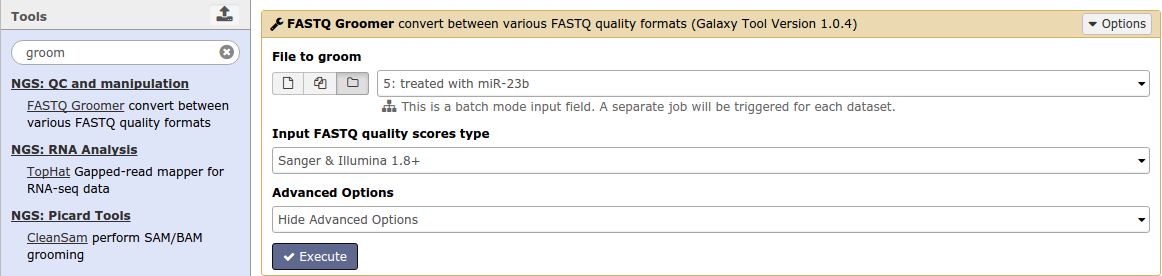
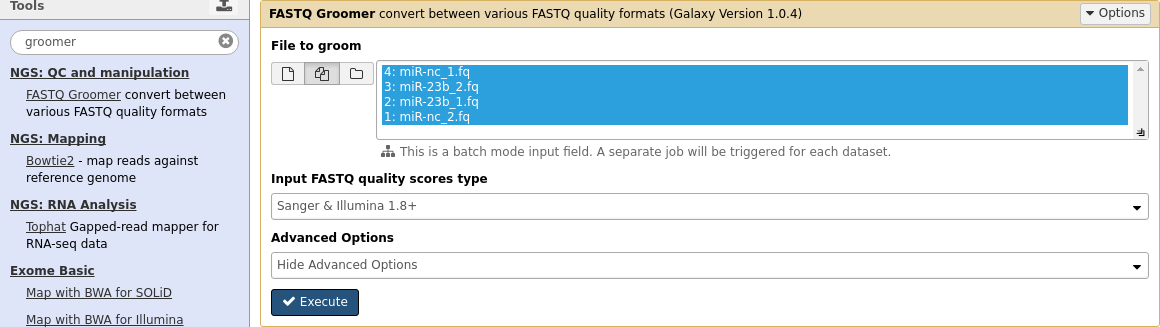
RNA seq updates

diff --git a/Galaxy_RNA-Seq_DGE/Galaxy_RNA-Seq_DGE_manual_Module_QC.tex b/Galaxy_RNA-Seq_DGE/Galaxy_RNA-Seq_DGE_manual_Module_QC.tex
@@ -1,47 +1,49 @@
 \section{RNA-Seq: QC/QA}
-The very first step of an RNA-Seq analysis is the quality control and quality assurance. The sequencing data is usually provided in FASTQ format, which describes per base the quality reflecting the probability it was measured correctly. However, different encodings are being used. Galaxy has tools that figure this information out for you.
+The very first step of an RNA-Seq analysis is the quality control and quality assurance. The sequencing data is usually provided in FASTQ format, which reports the sequenced bases and also describes per base the quality reflecting the probability it was measured correctly. However, different encodings are being used. Galaxy contains tools that assist you in determining and dealing with these formats by converting them to \textit{fastqsanger}.
 
-\subsection{Paired end $\rightarrow$ pairs}
-For this module, create a new history and load the Shared Data files ``ctrl\_small\_1.fq'' and ``ctrl\_small\_2.fq'' and ``treat\_small\_1.fq'' and ``treat\_small\_2.fq'' into your history. As you may expect from the file names already, \verb|_1| and \verb|_2| indicate that these files are paired end and belong together:\\
+\subsection{Paired end data as `pairs' within galaxy}
+\textbf{Note: using `pairs' for storing paired end reads in galaxy is experimental but will become the common way doing analysis on paired end data.} \\
+This section will only show how to do this.
+
+For this module, create a new history and load the Shared Data (\textit{\datalibrarydirrnaseqadvanced}) files ``ctrl\_small\_1.fq'' and ``ctrl\_small\_2.fq'' and ``treat\_small\_1.fq'' and ``treat\_small\_2.fq'' into your history. As you may expect from the file names already, \verb|_1| and \verb|_2| indicate that these files are paired end and belong together:\\
 \includegraphics[scale=0.65]{figures/qc_01.png}\\
-Hence, each pair of files belongs to each other and we can treat them as pairs in galaxy. First you have to select \textit{For all selected...} to apply actions on multiple history items at once, then you have to select those 2 history items you want to have as pair and then you have to select \textit{Build Dataset Pair}. Galaxy does not really know which one is the forward and which one is the reverse. Therefore make sure that \textbf{\_1 is forward} and \textbf{\_2 is reverse}. If galaxy choose the files correctly by it itself, use \text{Swap}. One of the samples has been treated with miR-23b and the other is a control. Make sure you use names that make this clear. After you have done this, you will see that you end up with 6 datasets in total, of which 2 pairs. To avoid confusion it is easier to hide the individual history items, leaving two items in the history:\\
+Hence, each pair of files belong to each other and we can treat them as pairs in galaxy. First you have to select the checkbox on top of the history ``\textit{Operations on multiple datasets}'', select the history items that belong to the pair of interest and then press the button \textit{For all selected...} to apply actions on multiple history items at once, select \textit{Build Dataset Pair}. Galaxy does not really know which one is the forward and which one is the reverse. Therefore make sure that \textbf{\_1 is forward} and \textbf{\_2 is reverse}. If galaxy does not choose the files correctly by it itself, use \text{Swap}. One of the samples has been treated with miR-23b and the other is a control. Make sure you use names that make this clear. After you have done this, you will see that you end up with 6 datasets in total, of which 2 pairs. To avoid confusion it is easier to hide the individual history items, leaving two items in the history:\\
 \includegraphics[width=\textwidth]{figures/qc_02.png}\\
 \subsection{Fastq, Fastqsanger and FastQC}
-To obtain statistics on the data, find the tool ``\textit{\underline{FastQC} Read Quality reports}''. This tool, originally developed for DNA-Seq analysis, makes several summaries of the data and presents the output in a HTML page. As you can see, by default FastQC selects the individual fastq files for analysis. This is because FastQC does analysis just on one fastq file. When we choose to select one of our pairs, galaxy will run FastQC twice and merge the results into a new pair:\\
+To obtain statistics on the data, find the tool ``\textit{\underline{FastQC} Read Quality reports}''. This tool, originally developed for DNA-Seq analysis, makes several summaries of the data and reports the summary in a HTML page. By default FastQC selects the individual fastq files for analysis. This is because FastQC does analysis just on one fastq file. When we choose to select one of our pairs, galaxy will run FastQC twice and merge the results into a new pair. You can choose whether you want to run them as pair or as single file seperately, but make sure you run all of them to get an impression of the data. In the following figure it is demonstrated how to use FastQC in combination with pairs:\\
 \includegraphics[width=\textwidth]{figures/qc_03.png}\\
-What follows is a quality report (raw data and HTML report) for both the forward and the reverse pair. Go to \textit{Back to Galaxy RNA-Seq QC/QA FastQC on collection 5: Webpage \ldots} and open the report named \textit{forward} which should look similar to this:\\
+What follows is a quality report (raw data and HTML report) for each FASTQ file. Open the miR23b (forward) FastQC report that contains \textit{\ldots: Webpage \ldots} in its name which should look similar to this:\\
 \includegraphics[scale=0.65]{figures/qc_04.png}\\
-The galaxy history items are in the \textbf{fastq} format. This format is a general format that includes a few subformats based on different quality encodings. For the next step you need to understand the FASTQ encoding formats. They are described at the following website in section \textit{Encoding}:\\
+The galaxy history items are in the \textbf{fastq} format. This format is a general format that covers four specific subformats that differ in their quality encoding. Before we proceed with the next step it is important to understand the FASTQ encoding formats. They are described at the following website in section \textit{Encoding}:\\
 \url{http://en.wikipedia.org/wiki/FASTQ\_format#Encoding}\\
-In the FastQC report, scroll down to \textbf{Basic Statistics} and figure out what the \text{Encoding} is. This information may be important, especially because for certain older galaxy configurations, so write it down:\\
+In the FastQC report, scroll down to \textbf{Basic Statistics} and figure out what the \text{Encoding} is. This information is important because other tools want the specific subdatatype instead of `\textit{fastq}', so write the format as reported by FastQC down:\\
 \verb|.......................................................|\\
-The more or less standard encoding is \textit{fastqsanger}, which is the same encoding as \textit{Illumina 1.8} and \textit{Illumina 1.9}, also referred to as \textit{Illumina 1.8+}. To convert any fastq file to \textit{fastqsanger}, you can use the tool ``\textit{\underline{FASTQ Groomer} converts between various FASTQ quality formats}''. In here, make sure the quality encoding you wrote down matches the one in the input field. Further, make sure you run it twice; for each pair:\\
+The more or less standard encoding is \textit{fastqsanger}, which is the same encoding as \textit{Illumina 1.8} and \textit{Illumina 1.9}, also referred to as \textit{Illumina 1.8+}. To convert a fastq file into \textit{fastqsanger}, we use the tool ``\textit{\underline{FASTQ Groomer} converts between various FASTQ quality formats}''. In here, make sure the quality encoding you wrote down matches the one in the input field. Further, make sure you run it for each sample:\\
 \includegraphics[width=\textwidth]{figures/qc_05.png}\\
-This will add two new pairs to your history, with names that are not convenient. Please rename:
-\begin{itemize}
-	\item ``\textit{FASTQ Groomer on collection 5}'' to ``\textit{miR-23b (groomed)}''
-	\item ``\textit{FASTQ Groomer on collection 6}'' to ``\textit{control sample (groomed)}''
-\end{itemize}
-If we go back to the FastQC webpage report, and look in section \textit{Per base sequence quality}, we see the average quality per base for all reads. The colors green, orange and red indicate whether the quality is considered good, okay, or bad. As you can see, the quality drops as the sequences get longer. It is important to realize that low quality bases will complicate alignment but also SNP detection, because there will be more mismatches. To improve the base quality of the data, we would like to:
+This will add the groomed fastqsanger files to your history, with names that are not convenient. Please rename such that you can keep track of the sample name (miR23b/control) and, if you did not use pairs, whether the reads are forward or reverse.
+
+If we go back to the FastQC webpage report, and look in section \textit{Per base sequence quality}, we see the average quality per base for all reads. The colors green, orange and red indicate whether the quality is considered good, okay, or bad. As you can see, the quality drops as the sequences get longer. It is important to realize that low quality bases will complicate alignment as well as SNP detection, because there will be more mismatches. To improve overall the base quality of the data, we would like to:
 \begin{itemize}
 	\item Trim the low quality bases from the ends
 	\item Remove reads of which the average quality is too low
 	\item Remove reads that are too short
 \end{itemize}
-A tool that covers all of this is ``\textit{\underline{Sickle} windowed adaptive trimming of FASTQ data}''. For both pairs \textit{miR-23b (groomed)} and \textit{control sample (groomed)}, run it with the following settings:\\
+A tool that covers all of this is ``\textit{\underline{Sickle} windowed adaptive trimming of FASTQ data}''. Because we have paired end data, we have to run it twice, once for miR-23b and once for the control. Run it with the following settings:\\
 \includegraphics[width=\textwidth]{figures/qc_06.png}\\
-Immediately after running a sickle analysis, rename the files 
-\textit{Singletons from paired-end ...} and \textit{Paired-end output of Sickle on ...} to:
+After running a sickle analysis, rename the files 
+\textit{Singletons from paired-end ...} and \textit{Paired-end output of Sickle on ...} to e.g.:
 \begin{itemize}
 	\item[] for miR-23b:
 	\begin{itemize}
 		\item miR-23b, singletons(clean)
-		\item miR-23b (clean)
+		\item miR-23b_1 (clean)
+		\item miR-23b_2 (clean)
 	\end{itemize}
 	\item[] for control sample:
 	\begin{itemize}
 		\item control sample, singletons(clean)
-		\item control sample (clean)
+		\item control sample_1 (clean)
+		\item control sample_2 (clean)
 	\end{itemize}
 \end{itemize}
 If desired, you can hide the other results, such that you will get a history similar to:\\

diff --git a/configure.tex b/configure.tex
@@ -1,29 +1,1 @@
-
-% These are the configurable settings
-% Please change them to make it fit your course
-\def \institute {Institute / project name}
-\def \authors { Youri Hoogstrate, \institute }
-
-\def \servers {
-\begin{itemize}
-	\item \url{https://usegalaxy.org/}
-	\item \url{https://bioinf-galaxian.erasmusmc.nl/galaxy/}
-\end{itemize}
-}
-\def \datalibrarydirintroduction {
-	TraIT Galaxy Training Materials
-		$\rightarrow$
-	TraIT Galaxy Training - 1: Introduction to Galaxy
-}
-
-\def \datalibrarydirrnaseqtuxedo {
-	TraIT Galaxy Training Materials
-		$\rightarrow$
-	TraIT Galaxy Training - 3: RNASeq Tuxedo Pipeline
-}
-
-\def \datalibrarydirrnaseqadvanced {
-	TraIT Galaxy Training Materials
-		$\rightarrow$
-	TraIT Galaxy Training - 5: Advanced RNA-Seq Analysis
-}
+configure_EMCmay2016.tex

diff --git a/configure_VUmc_feb_2016.tex b/configure_VUmc_feb_2016.tex
@@ -1,0 +1,29 @@
+
+% These are the configurable settings
+% Please change them to make it fit your course
+\def \institute {Institute / project name}
+\def \authors { Youri Hoogstrate, \institute }
+
+\def \servers {
+\begin{itemize}
+	\item \url{https://usegalaxy.org/}
+	\item \url{https://bioinf-galaxian.erasmusmc.nl/galaxy/}
+\end{itemize}
+}
+\def \datalibrarydirintroduction {
+	TraIT Galaxy Training Materials
+		$\rightarrow$
+	TraIT Galaxy Training - 1: Introduction to Galaxy
+}
+
+\def \datalibrarydirrnaseqtuxedo {
+	TraIT Galaxy Training Materials
+		$\rightarrow$
+	TraIT Galaxy Training - 3: RNASeq Tuxedo Pipeline
+}
+
+\def \datalibrarydirrnaseqadvanced {
+	TraIT Galaxy Training Materials
+		$\rightarrow$
+	TraIT Galaxy Training - 5: Advanced RNA-Seq Analysis
+}
